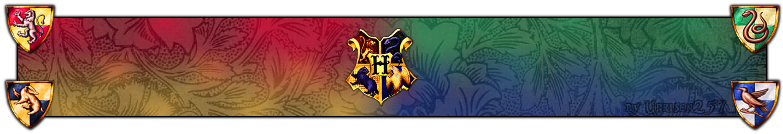
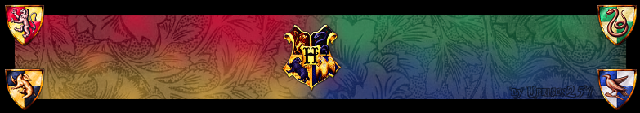
corregir redireccionamientos e imagenes

diff --git a/styles-estudios.css b/styles-estudios.css
@@ -14,6 +14,11 @@ html {
   overflow-x: hidden;
   height: 100%;
   cursor: none;
+
+  -webkit-user-select: none; /* Para navegadores basados en WebKit como Chrome y Safari */
+  -moz-user-select: none;    /* Para Firefox */
+  -ms-user-select: none;     /* Para Internet Explorer/Edge */
+  user-select: none;         /* Estándar */
 }
 
 .hogwarts-castle {
@@ -58,11 +63,11 @@ header {
   border-radius: 10px;
   margin-bottom: 20px;
 }
-
+/*BAnner*/
 #banner-image {
   width: 100%;
   height: 100%;
-  object-fit: cover;
+  object-fit:cover;
 }
 
 nav {
@@ -106,8 +111,8 @@ nav ul li a:hover {
   cursor: none;
   padding: 5px;
   margin: 0 10px;
-  width: 100px;
-  height: 100px;
+  width: 120px;
+  height: 120px;
   overflow: hidden;
   border-radius: 10px;
   transition: transform 0.3s ease;
@@ -284,8 +289,8 @@ h2 {
 }
 
 .logos {
-  width: 30px;
-  height: 30px;
+  width: 50px;
+  height: 50px;
   transition: transform 0.3s, filter 0.3s;
 }
 

diff --git a/estudios.html b/estudios.html
@@ -18,8 +18,8 @@
                 </div>
                 <nav> <!-- Barra de navegación -->
                     <ul> <!-- Lista de enlaces de navegación -->
-                        <li><a href="index.html"><span>Inicio</span></a></li> <!-- Enlace a la página de inicio -->
-                        <li><a href="proyectos.html"><span>Proyectos</span></a></li> <!-- Enlace a la página de proyectos -->
+                        <li><a href="map.html"><span>Inicio</span></a></li> <!-- Enlace a la página de inicio -->
+                        <li><a href="inicio.html"><span>Proyectos</span></a></li> <!-- Enlace a la página de proyectos -->
                         <li><a href="estudios.html"><span>Estudios</span></a></li> <!-- Enlace a la página de estudios -->
                         <li><a href="sobre-mi.html"><span>Sobre Mí</span></a></li> <!-- Enlace a la página de información personal -->
                     </ul>

diff --git a/map.html b/map.html
@@ -22,10 +22,10 @@
             </div>
             
             <div class="location" id="studies" data-map="magic-map">
-                <a href="index2.html">
+                <a href="estudios.html">
                     <div class="gif-container">
                         <img src="/imagen/nachin/gifnacho.gif" alt="Estudios" class="original-gif">
-                        <img src="/imagen/nachin/nachos.gif" alt="Estudios Hover" class="hover-gif">
+                        <img src="/imagen/nachin/nachoh.gif" alt="Estudios Hover" class="hover-gif">
                     </div>
                 </a>
                 <span>Estudios</span>

diff --git a/inicio.html b/inicio.html
@@ -16,7 +16,7 @@
             <ul>
                 <li><a href="map.html"><span>inicio</span></a></li>
                 <li><a href="inicio.html"><span>proyectos</span></a></li>
-                <li><a href="/index2.html" target="_blank"><span>estudios</span></a></li>
+                <li><a href="estudios.html" target="_blank"><span>estudios</span></a></li>
                 <li><a href="index3.html"><span>Sobre mi</span></a></li>
             </ul>
         </nav>

diff --git a/script-estudios.js b/script-estudios.js
@@ -103,7 +103,7 @@ document.addEventListener("DOMContentLoaded", () => {
     const themes = {
       default: {
         background: "url('/imagen/nada.jpg')",
-        banner: "/imagen/casas/hogwarts.png",
+        banner: "/imagen/casas/hoba.png",
         color: "#808080",
         flag: null,
         footerColor: "rgba(14, 26, 64, 0.8)",

diff --git a/map.css b/map.css
@@ -39,8 +39,8 @@ body, html {
 }
 
 .magic-map {
-    background-image: url('/imagen/maplord.png');
-    background-size: contain; /* Ajusta el tamaño */
+    background-image: url('/imagen/hogwarts-harry-potter.jpg');
+    background-size:cover; /* Ajusta el tamaño */
     background-position: center;
 }
 

diff --git a/styles.css b/styles.css
@@ -33,7 +33,7 @@ header {
 #banner {
   position: relative;
   width: 100%; /* Ancho completo */
-  height: 350px; /* Altura fija */
+  height: 490px; /* Altura fija */
   overflow: hidden; /* Oculta contenido que se salga del contenedor */
 }
 
